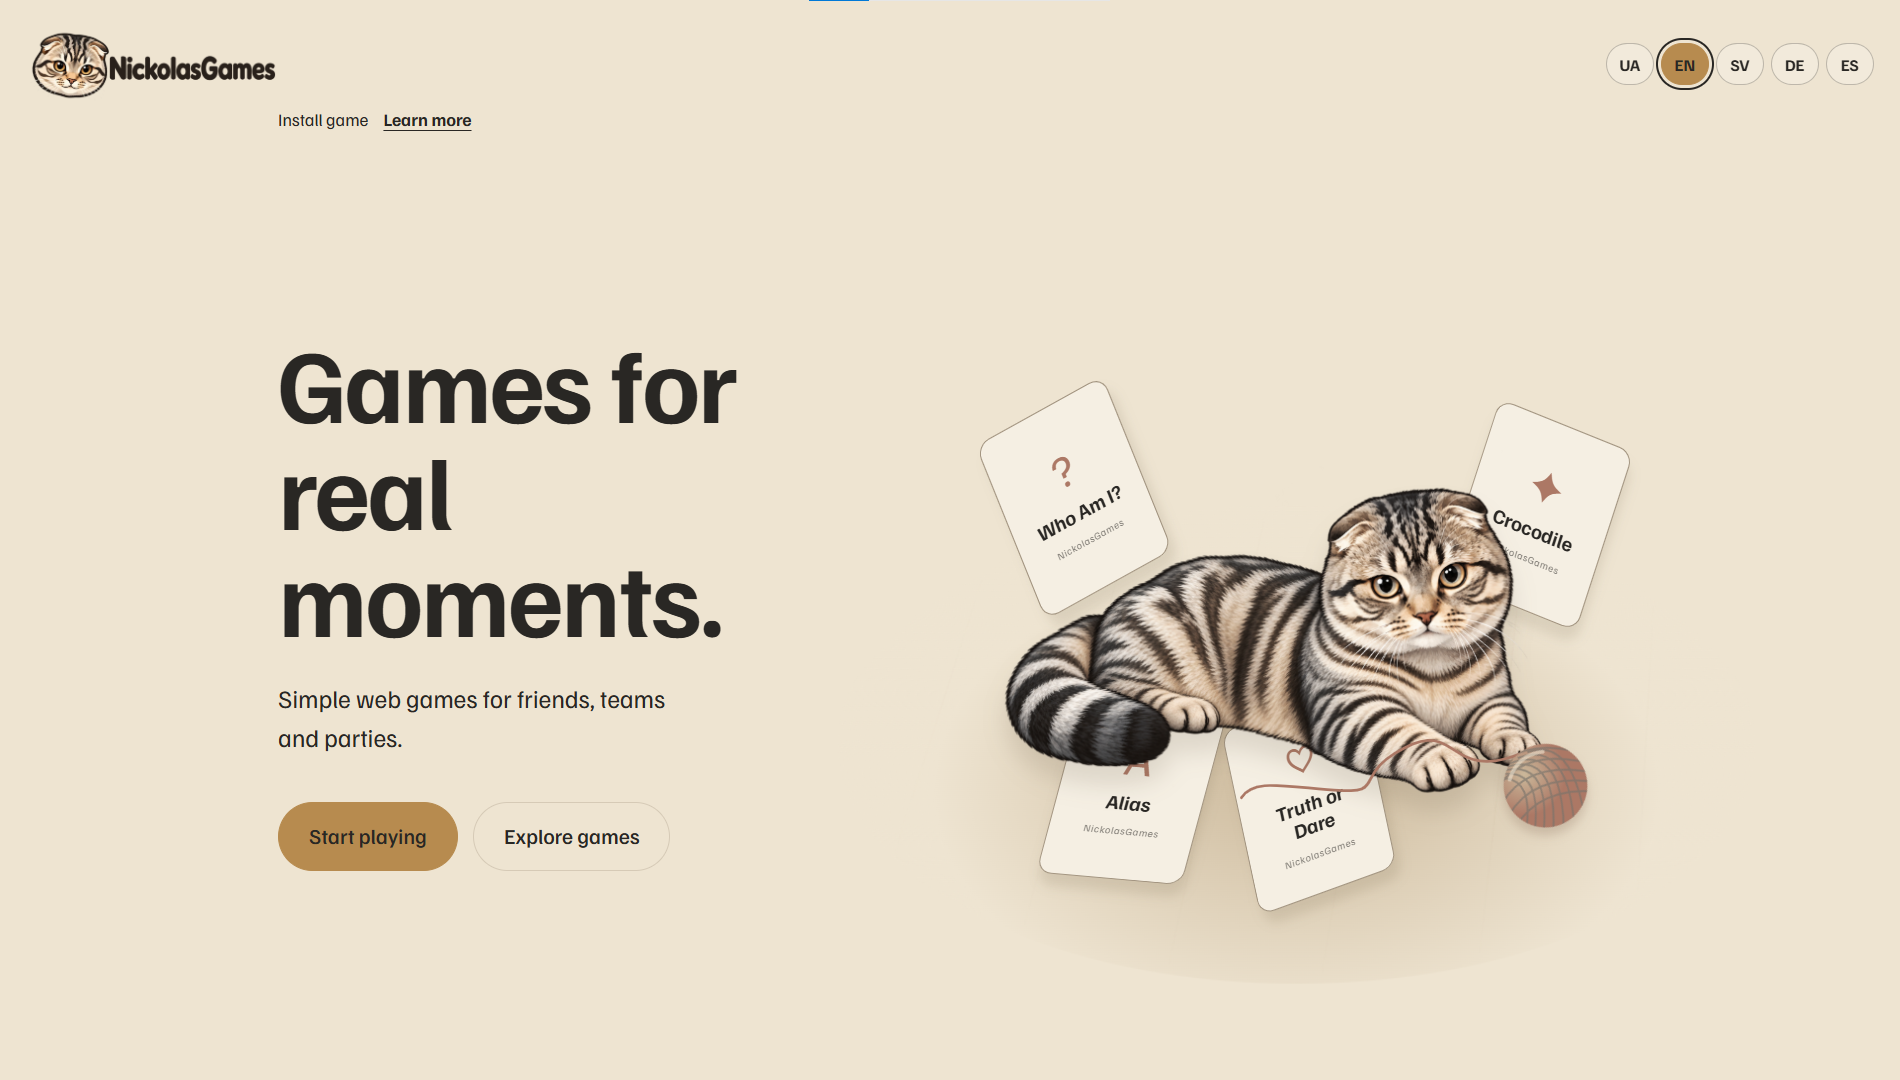
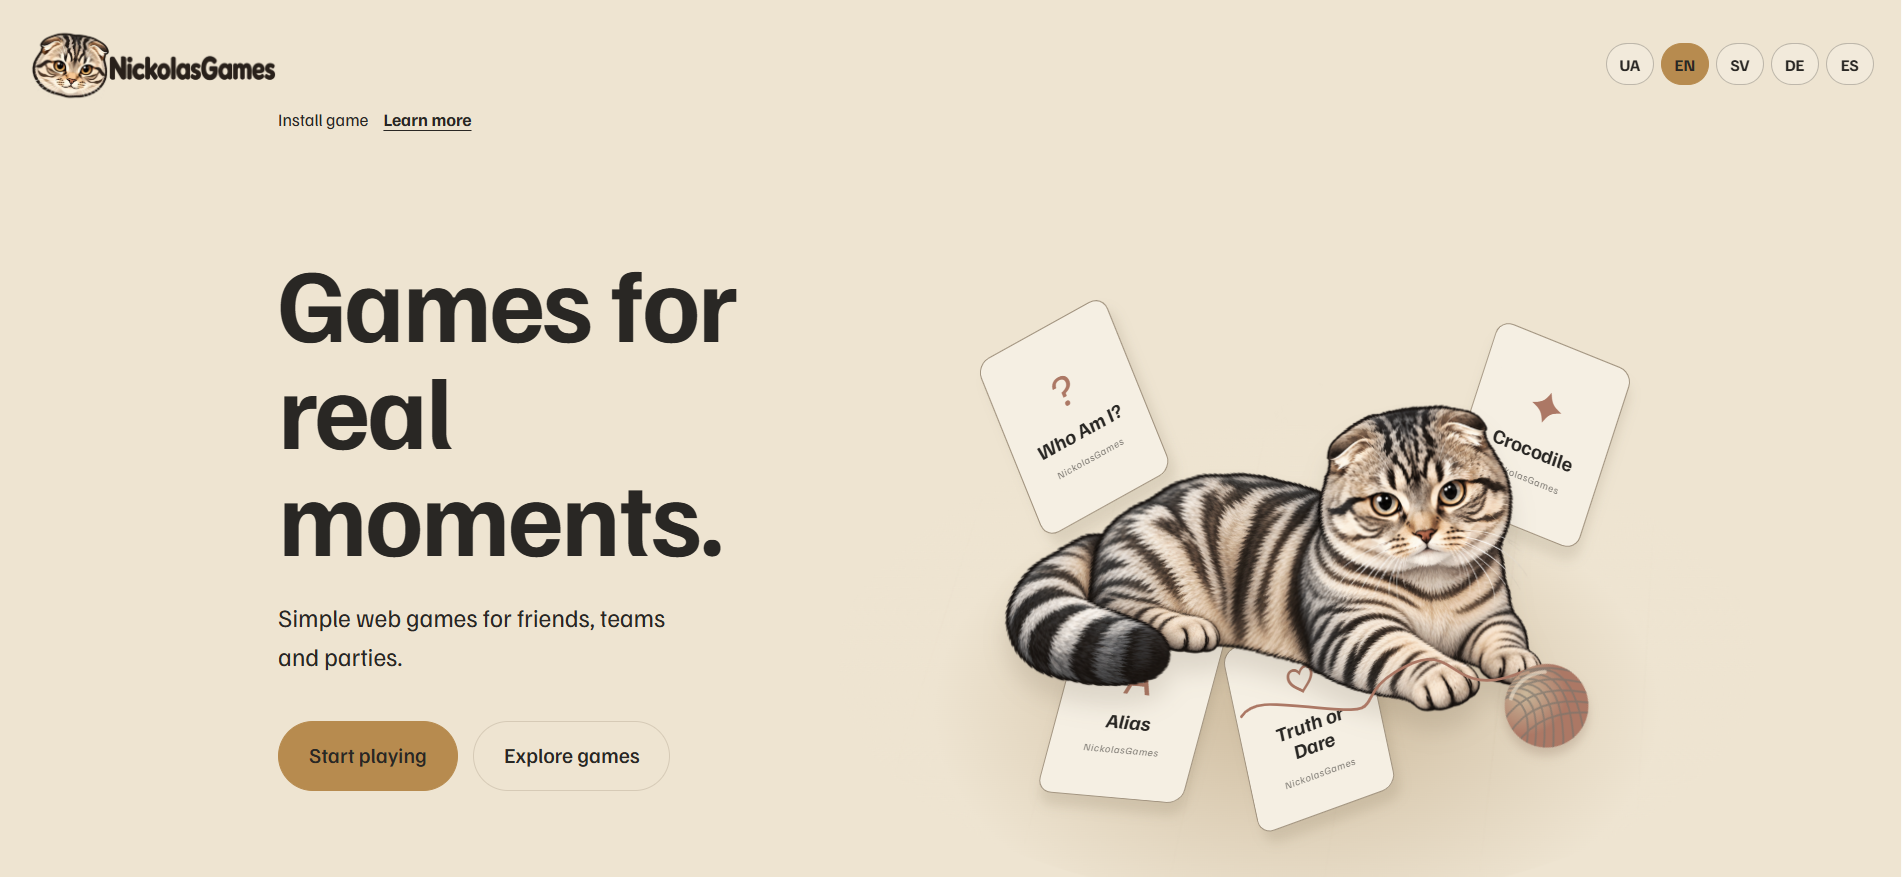
Refresh NickolasGames homepage screenshots

diff --git a/src/components/SelectedWork.jsx b/src/components/SelectedWork.jsx
@@ -9,9 +9,9 @@ const autoAlexScreens = [
 ];
 
 const nickolasGamesScreens = [
-  { src: "./assets/nickolasgames-home-uk.png", width: 1903, height: 1080 },
-  { src: "./assets/nickolasgames-home-en.png", width: 1900, height: 1080 },
-  { src: "./assets/nickolasgames-home-sv.png", width: 1901, height: 1079 },
+  { src: "./assets/nickolasgames-home-uk.png?v=2", width: 1904, height: 876 },
+  { src: "./assets/nickolasgames-home-en.png?v=2", width: 1902, height: 877 },
+  { src: "./assets/nickolasgames-home-sv.png?v=2", width: 1900, height: 878 },
   { src: "./assets/nickolasgames-catalog-uk.png", width: 1900, height: 1080 },
   { src: "./assets/nickolasgames-catalog-en.png", width: 1900, height: 1080 },
   { src: "./assets/nickolasgames-catalog-sv.png", width: 1898, height: 1080 },
